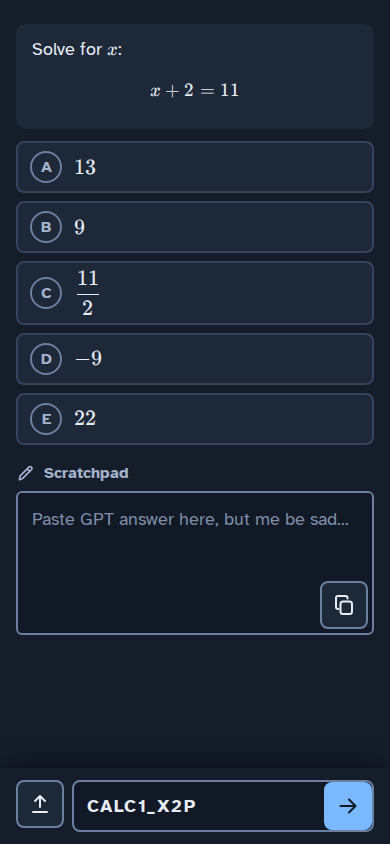
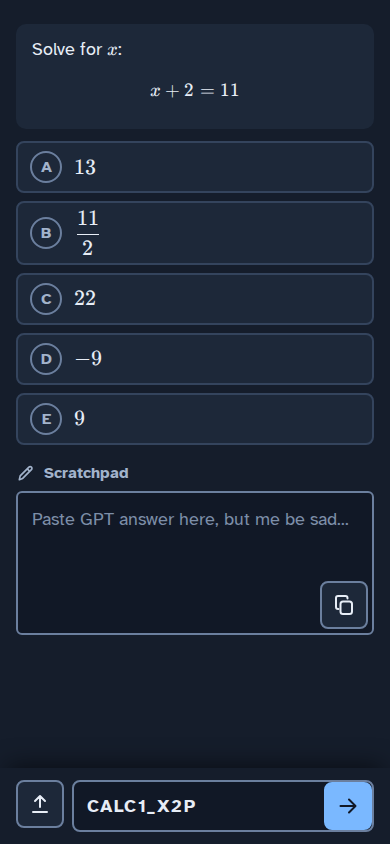
Page: text + multi answers, how-to-type line, 2-5 choices, shuffle for uploaded files
- text: one box, the problem's 'how' line right above it, no math preview
- multi: question + boxes in one box (Tony's sketch), A/B/... badges, one arrow that stays off until
  every box is filled; Enter jumps to the next empty box
- mc: 2-5 choices; uploaded files shuffle with a per-browser seed (server problems arrive shuffled)
- gradeLocal mirrors serve.py per answer unit (text/num/expr, parts)
- render.pw: text/multi/2-choice steps at 390/1024/1920 (all pass); Impeccable static + live: 0
- shots: design/shots/multi-*.png, tf-*.png

Claude-Session: https://claude.ai/code/session_01EiTU7Y965fK6k3NLpJj9FC

Changed region(s): [[0.0308, 0.2464, 0.9538, 0.3697], [0.1846, 0.4621, 0.2462, 0.5237]]

diff --git a/app.js b/app.js
@@ -54,41 +54,49 @@ async function check(code, answer) {
   return { verdict: "pending" };
 }
 /* mirror of serve.py grade(): keep the two in step */
+const squash = t => String(t).replace(/\s+/g, "").toLowerCase();
+function unitSig(u, t) {                                  // serve.py signature()
+  if (u.type === "text") { if (!squash(t)) throw 0; return squash(t); }
+  if (/^\s*(dne|does not exist)\s*$/i.test(t)) return "dne";
+  const v = u.var || "x", c = math.compile(t.replace(/ln\s*\(/gi, "log(").replace(/π/g, "pi").replace(/∞/g, "Infinity"));
+  const at = x => { let r = c.evaluate({ [v]: x }); if (typeof r !== "number") r = math.number(r); if (Number.isNaN(r)) throw 0; return r; };
+  return u.type === "expr" ? u.points.map(at) : at(undefined);
+}
+const same = (a, b, tol) => Array.isArray(a) ? Array.isArray(b) && a.length === b.length && a.every((x, i) => same(x, b[i], tol))
+  : typeof a === "string" || typeof b === "string" || !Number.isFinite(a) || !Number.isFinite(b) ? a === b
+  : Math.abs(a - b) <= tol * Math.max(1, Math.abs(b));
+const unitOk = (u, g) => u.type === "text" ? [u.answer, ...(u.accept || [])].map(squash).includes(g)
+  : same(g, u.answer === "dne" ? "dne" : unitSig(u, u.answer), u.tol ?? 1e-6);
+function unitHit(u, t, g) {                               // re entries first, then match
+  const w = u.wrong || [];
+  return w.find(x => x.re && new RegExp(x.re, "i").test(t))
+    || w.find(x => { try { return x.match != null && same(g, unitSig(u, x.match), u.tol ?? 1e-6); } catch { return false; } });
+}
 function gradeLocal(key, answer) {
   const st = localState.get(key.code) || { wrong: [], done: false };
   localState.set(key.code, st);
   const left = () => MAX_TRIES - st.wrong.length;
   if (st.done || left() <= 0) return { verdict: "locked", triesLeft: 0 };
-  let hit = null, correct = false, repeat = false;
-  if ("choice" in answer) {
-    if (!key.choices.some(c => c.id === answer.choice)) return { verdict: "invalid", triesLeft: left() };
-    correct = answer.choice === key.correct;
-    hit = (key.wrong || []).find(w => w.choice === answer.choice);
-    repeat = st.wrong.includes(answer.choice);
-    if (!correct && !repeat) st.wrong.push(answer.choice);
+  let hit = null, correct, sig;
+  if (key.type === "mc") {
+    sig = answer.choice;
+    if (!shown(key).some(c => c.id === sig)) return { verdict: "invalid", triesLeft: left() };
+    correct = sig === key.correct;
+    if (!correct) hit = (key.wrong || []).find(w => w.choice === sig);
   } else {
-    const typed = String(answer.answer).trim(), tol = key.tol ?? 1e-6, v = key.var || "x";
-    const isDne = t => /^\s*(dne|does not exist)\s*$/i.test(t);
-    const sig = t => {
-      if (isDne(t)) return "dne";
-      const c = math.compile(t.replace(/ln\s*\(/gi, "log(").replace(/π/g, "pi").replace(/∞/g, "Infinity"));
-      const at = x => { let r = c.evaluate({ [v]: x }); if (typeof r !== "number") r = math.number(r); if (Number.isNaN(r)) throw 0; return r; };
-      return key.type === "expr" ? key.points.map(at) : at(undefined);
-    };
-    const same = (a, b) => Array.isArray(a) ? a.length === b.length && a.every((x, i) => same(x, b[i]))
-      : typeof a === "string" || typeof b === "string" || !Number.isFinite(a) || !Number.isFinite(b) ? a === b
-      : Math.abs(a - b) <= tol * Math.max(1, Math.abs(b));
-    let val;
-    try { val = sig(typed); } catch { return { verdict: "invalid", triesLeft: left() }; }
-    correct = same(val, key.answer === "dne" ? "dne" : sig(key.answer));
-    if (!correct) {
-      hit = (key.wrong || []).find(w => w.re && new RegExp(w.re, "i").test(typed))
-         || (key.wrong || []).find(w => { try { return w.match != null && same(val, sig(w.match)); } catch { return false; } });
-      repeat = st.wrong.some(w => same(val, w));
-      if (!repeat) st.wrong.push(val);
-    }
+    const units = key.type === "multi" ? key.parts : [key];
+    const texts = key.type === "multi" ? answer.parts : [answer.answer];
+    if (!Array.isArray(texts) || texts.length !== units.length) return { verdict: "invalid", triesLeft: left() };
+    let oks;
+    try { sig = units.map((u, i) => unitSig(u, String(texts[i]))); oks = units.map((u, i) => unitOk(u, sig[i])); }
+    catch { return { verdict: "invalid", triesLeft: left() }; }
+    correct = oks.every(Boolean);
+    if (!correct) for (let i = 0; i < units.length && !hit; i++) if (!oks[i]) hit = unitHit(units[i], String(texts[i]), sig[i]);
   }
   if (correct) { st.done = true; return { verdict: "correct", triesLeft: left() }; }
+  const tol = Math.max(...(key.parts || [key]).map(u => u.tol ?? 1e-6));
+  const repeat = st.wrong.some(w => same(sig, w, tol));
+  if (!repeat) st.wrong.push(sig);
   const out = { verdict: "wrong", triesLeft: left(), hint: hit ? hit.hint : (key.nudge || "QUACK. Plug your answer back into the problem. Does it work?") };
   if (hit) out.error = hit.error;
   if (repeat) out.repeat = true;
@@ -189,8 +197,10 @@ function drawFigures() {
 const LETTERS = "ABCDE";
 function renderQuestion() {
   const q = $("#q"), p = S.prob;
+  $("#freezeIn").classList.toggle("boxed", p.type === "multi");      // multi: question + boxes in one box (Tony's sketch)
   if (p.type === "mc") {
-    q.innerHTML = `<div class="choices" role="radiogroup" aria-label="Choices">${shown(p).map((c, i) => `
+    const list = off() && p.shuffle !== false ? shuffled(shown(p), localSeed() + ":" + p.code) : shown(p);   // server problems arrive shuffled
+    q.innerHTML = `${howLine(p)}<div class="choices" role="radiogroup" aria-label="Choices">${list.map((c, i) => `
       <div class="ch" data-id="${esc(c.id)}">
         <button type="button" class="opt" role="radio" aria-checked="false" tabindex="${i ? -1 : 0}" data-id="${esc(c.id)}" data-l="${LETTERS[i]}">
           <span class="badge" aria-hidden="true">${LETTERS[i]}</span><span class="txt">${md(c.md, true)}</span>
@@ -199,16 +209,45 @@ function renderQuestion() {
       </div>`).join("")}</div>`;
     q.querySelectorAll(".opt").forEach(o => o.setAttribute("aria-label", `${o.dataset.l}: ${o.querySelector(".txt").textContent.trim()}`));
     wireMC(q);
+  } else if (p.type === "multi") {
+    /* one box per part, side by side; one arrow, off until every box is filled (SCHEMA.md "Grading") */
+    q.innerHTML = `${howLine(p)}<div class="ff multi" id="ff" role="group" aria-label="Answers"${p.how ? ' aria-describedby="how"' : ""}>
+        <div class="parts">${p.parts.map((u, i) => { const l = esc(u.label || LETTERS[i]); return `
+          <label class="part"><span class="badge" aria-hidden="true">${l}</span>
+            <input class="ans" type="text" aria-label="Answer ${l}" ${INPUT_ATTRS}></label>`; }).join("")}</div>
+        <button type="button" class="btn btn-go send" id="ansGo" aria-label="Submit answers" disabled>${icon("i-go")}</button>
+      </div>`;
+    wireFF();
   } else {
     const v = p.var || "x";
     const lead = p.type === "expr" ? `<span class="lead" aria-hidden="true">${renderMath(`f(${v}) =`, false)}</span>` : "";
-    q.innerHTML = `<div class="ff" id="ff">${lead}
-        <input id="ans" type="text" inputmode="text" aria-label="${p.type === "expr" ? `Answer: f(${v})` : "Answer"}"
-          autocomplete="off" autocorrect="off" autocapitalize="off" spellcheck="false" enterkeyhint="send" placeholder="${p.type === "expr" ? "in terms of " + v : "e.g. 9/2, sqrt(3), dne"}">
+    const ph = p.type === "expr" ? "in terms of " + v : p.type === "num" ? "e.g. 9/2, sqrt(3), dne" : "";
+    q.innerHTML = `${howLine(p)}<div class="ff" id="ff">${lead}
+        <input id="ans" class="ans" type="text" aria-label="${p.type === "expr" ? `Answer: f(${v})` : "Answer"}"${p.how ? ' aria-describedby="how"' : ""}
+          ${INPUT_ATTRS} placeholder="${ph}">
         <button type="button" class="btn btn-go send" id="ansGo" aria-label="Submit answer" disabled>${icon("i-go")}</button>
       </div><div class="preview" id="preview" aria-hidden="true"></div>`;
     wireFF();
   }
+}
+const INPUT_ATTRS = 'inputmode="text" autocomplete="off" autocorrect="off" autocapitalize="off" spellcheck="false" enterkeyhint="send"';
+/* the problem's "how to type the answer" line, right above the answer box */
+const howLine = p => p.how ? `<p class="how" id="how">${md(p.how, true)}</p>` : "";
+const off = () => window.stemOffline && window.stemOffline.has(S.code);
+/* shuffle for problems from an uploaded file (the server shuffles its own): seeded by a random id kept in this browser */
+function localSeed() {
+  try { let s = localStorage.getItem("stem-seed"); if (!s) { s = Math.random().toString(36).slice(2); localStorage.setItem("stem-seed", s); } return s; }
+  catch { return "stem"; }
+}
+function shuffled(choices, seed) {
+  let h = 2166136261;
+  for (const ch of seed) h = Math.imul(h ^ ch.charCodeAt(0), 16777619);
+  const rnd = () => { h = Math.imul(h ^ (h >>> 15), 2246822507); h = Math.imul(h ^ (h >>> 13), 3266489909); return ((h ^= h >>> 16) >>> 0) / 4294967296; };
+  const free = choices.map((c, i) => c.lock ? -1 : i).filter(i => i >= 0), moved = free.map(i => choices[i]);
+  for (let i = moved.length - 1; i > 0; i--) { const j = Math.floor(rnd() * (i + 1)); [moved[i], moved[j]] = [moved[j], moved[i]]; }
+  const out = [...choices];
+  free.forEach((i, k) => { out[i] = moved[k]; });
+  return out;
 }
 /* 5 choices shown. The server already cut them (serve.py public()); an uploaded file may have up to 8:
    same rule here: the right one, locked ones, then the rest, in authored order */
@@ -271,24 +310,35 @@ async function submitMC() {
 
 /* ---------- freeform: the same arrow, flush inside the input ---------- */
 function wireFF() {
-  const inp = $("#ans"), go = $("#ansGo"), pv = $("#preview");
-  inp.addEventListener("input", () => {
-    go.disabled = !inp.value.trim();
-    pv.innerHTML = "";
-    const t = inp.value.trim(); if (!t || typeof math === "undefined") return;
-    try { pv.innerHTML = /^dne$/i.test(t) ? "DNE" : renderMath(math.parse(t).toTex({ parenthesis: "auto", implicit: "hide" }), false); } catch { /* still typing */ }
-  });
-  inp.addEventListener("keydown", e => { if (e.key === "Enter") { e.preventDefault(); submitFF(); } });
+  const ins = [...document.querySelectorAll("#q .ans")], go = $("#ansGo"), pv = $("#preview"), mathy = /^(num|expr)$/.test(S.prob.type);
+  for (const inp of ins) {
+    inp.addEventListener("input", () => {
+      go.disabled = ins.some(x => !x.value.trim());
+      if (!pv) return;
+      pv.innerHTML = "";
+      const t = inp.value.trim(); if (!t || !mathy || typeof math === "undefined") return;
+      try { pv.innerHTML = /^dne$/i.test(t) ? "DNE" : renderMath(math.parse(t).toTex({ parenthesis: "auto", implicit: "hide" }), false); } catch { /* still typing */ }
+    });
+    /* Enter: next empty box first, submit when all are filled */
+    inp.addEventListener("keydown", e => {
+      if (e.key !== "Enter") return;
+      e.preventDefault();
+      const empty = ins.find(x => !x.value.trim());
+      if (empty) empty.focus(); else submitFF();
+    });
+  }
   go.addEventListener("click", submitFF);
 }
 let busy = false;
 async function submitFF() {
-  const inp = $("#ans"), t = inp.value.trim(); if (!t || S.finished || busy) return;
+  const ins = [...document.querySelectorAll("#q .ans")], vals = ins.map(x => x.value.trim());
+  if (vals.some(v => !v) || S.finished || busy) return;
   busy = true;
+  const multi = S.prob.type === "multi", t = vals.join(" , ");
   try {
-    const r = await check(S.code, { answer: t });
-    if (r.verdict !== "invalid") { record({ a: t }, r); $("#preview").innerHTML = ""; }
-    if (r.verdict === "correct") { $("#ff").classList.add("ok", "done"); inp.readOnly = true; $("#ansGo").hidden = true; finish(); }
+    const r = await check(S.code, multi ? { parts: vals } : { answer: vals[0] });
+    if (r.verdict !== "invalid") { record({ a: t }, r); if ($("#preview")) $("#preview").innerHTML = ""; }
+    if (r.verdict === "correct") { $("#ff").classList.add("ok", "done"); ins.forEach(x => { x.readOnly = true; }); $("#ansGo").hidden = true; finish(); }
     else if (r.verdict === "locked" || (r.verdict === "wrong" && r.triesLeft <= 0)) finish(true);
     feedback(r, t);
   } finally { busy = false; }
@@ -306,7 +356,7 @@ function finish(out) {
   S.finished = true;
   opts().forEach(o => { o.disabled = true; });
   document.querySelectorAll("#q .send").forEach(b => { b.hidden = true; });
-  if (out) { const inp = $("#ans"); if (inp) inp.readOnly = true; }
+  if (out) document.querySelectorAll("#q .ans").forEach(x => { x.readOnly = true; });
 }
 function feedback(r, typed) {
   const fb = $("#fb");

diff --git a/app.css b/app.css
@@ -146,7 +146,7 @@ main { max-width: 52rem; margin: 0 auto; padding: var(--s5) var(--gut) var(--s7)
   transition: border-color .12s ease-out, background-color .12s ease-out;
 }
 .opt:hover:not(:disabled) { border-color: var(--edge); }
-.opt .badge {
+.opt .badge, .part .badge {
   flex: none; width: 2rem; height: 2rem; display: grid; place-items: center; border-radius: 50%;
   border: 2px solid var(--edge); color: var(--muted); font-weight: 700; font-size: 1rem;
 }
@@ -178,6 +178,15 @@ main { max-width: 52rem; margin: 0 auto; padding: var(--s5) var(--gut) var(--s7)
 .ff.ok { border-color: var(--ok); }
 .ff.done input { color: var(--ok); }
 .preview:empty { display: none; }
+.how { margin: 0 0 var(--s2); color: var(--muted); font-size: 1rem; line-height: 1.4; }
+.how code { color: var(--ink); }
+/* multi: the boxes share one field and one arrow */
+.ff.multi { height: auto; min-height: 52px; padding-left: var(--s2); }
+.ff.multi .parts { flex: 1 1 auto; min-width: 0; display: grid; grid-template-columns: repeat(auto-fit, minmax(7.5rem, 1fr)); column-gap: var(--s3); }
+.ff.multi .part { display: flex; align-items: center; gap: var(--s2); min-width: 0; }
+.ff.multi .part input { padding-right: 0; }
+.boxed .p { border-radius: 10px 10px 0 0; padding-bottom: var(--s3); }
+.boxed .q { margin-top: 0; padding: 0 1.25rem var(--s4); background: var(--sheet); border-radius: 0 0 10px 10px; }
 .preview { margin: var(--s1) 0 0 var(--s3); color: var(--muted); font-size: 1rem; }
 
 /* feedback */
